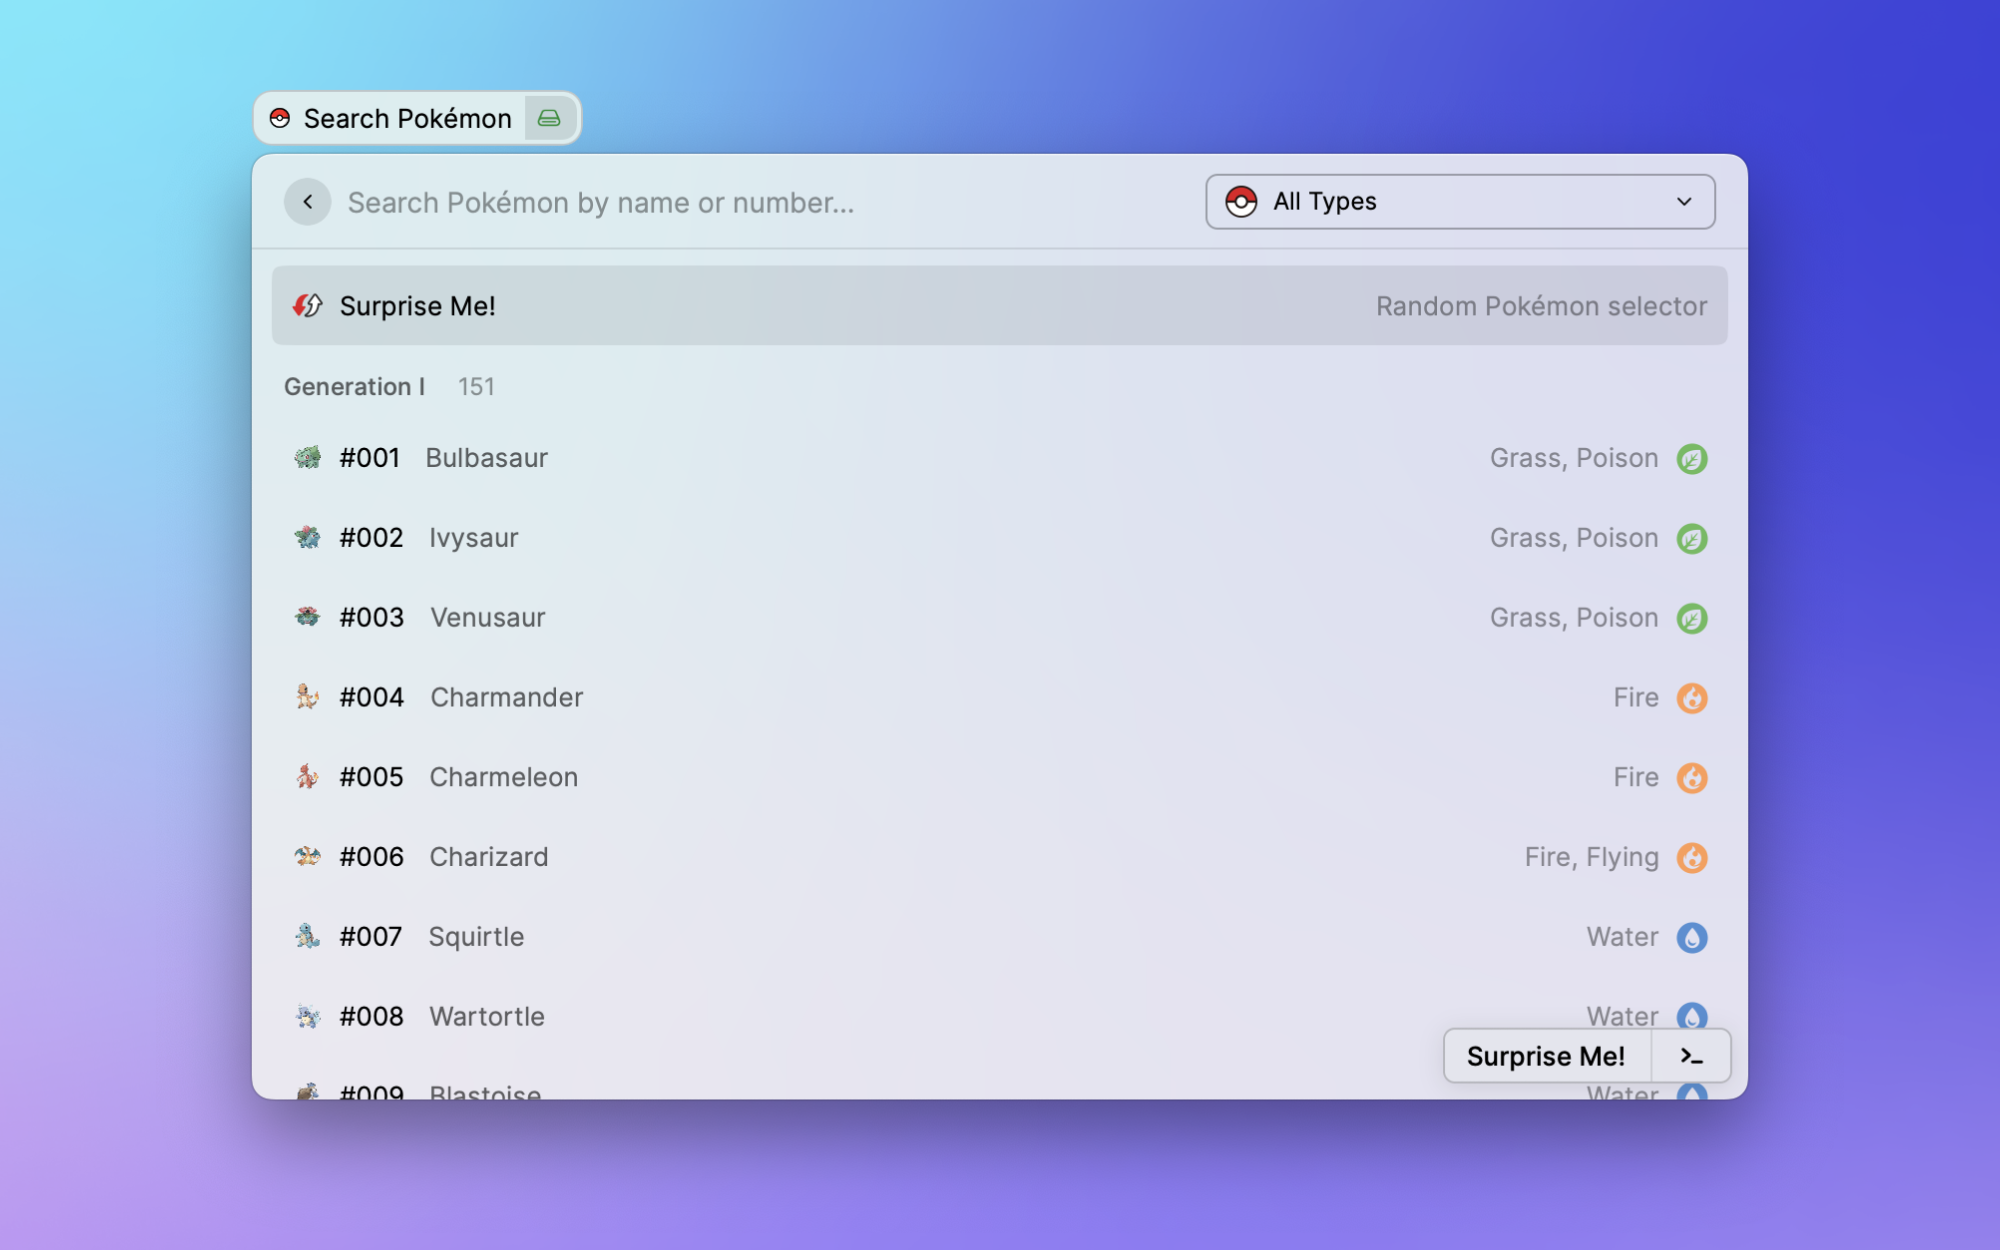
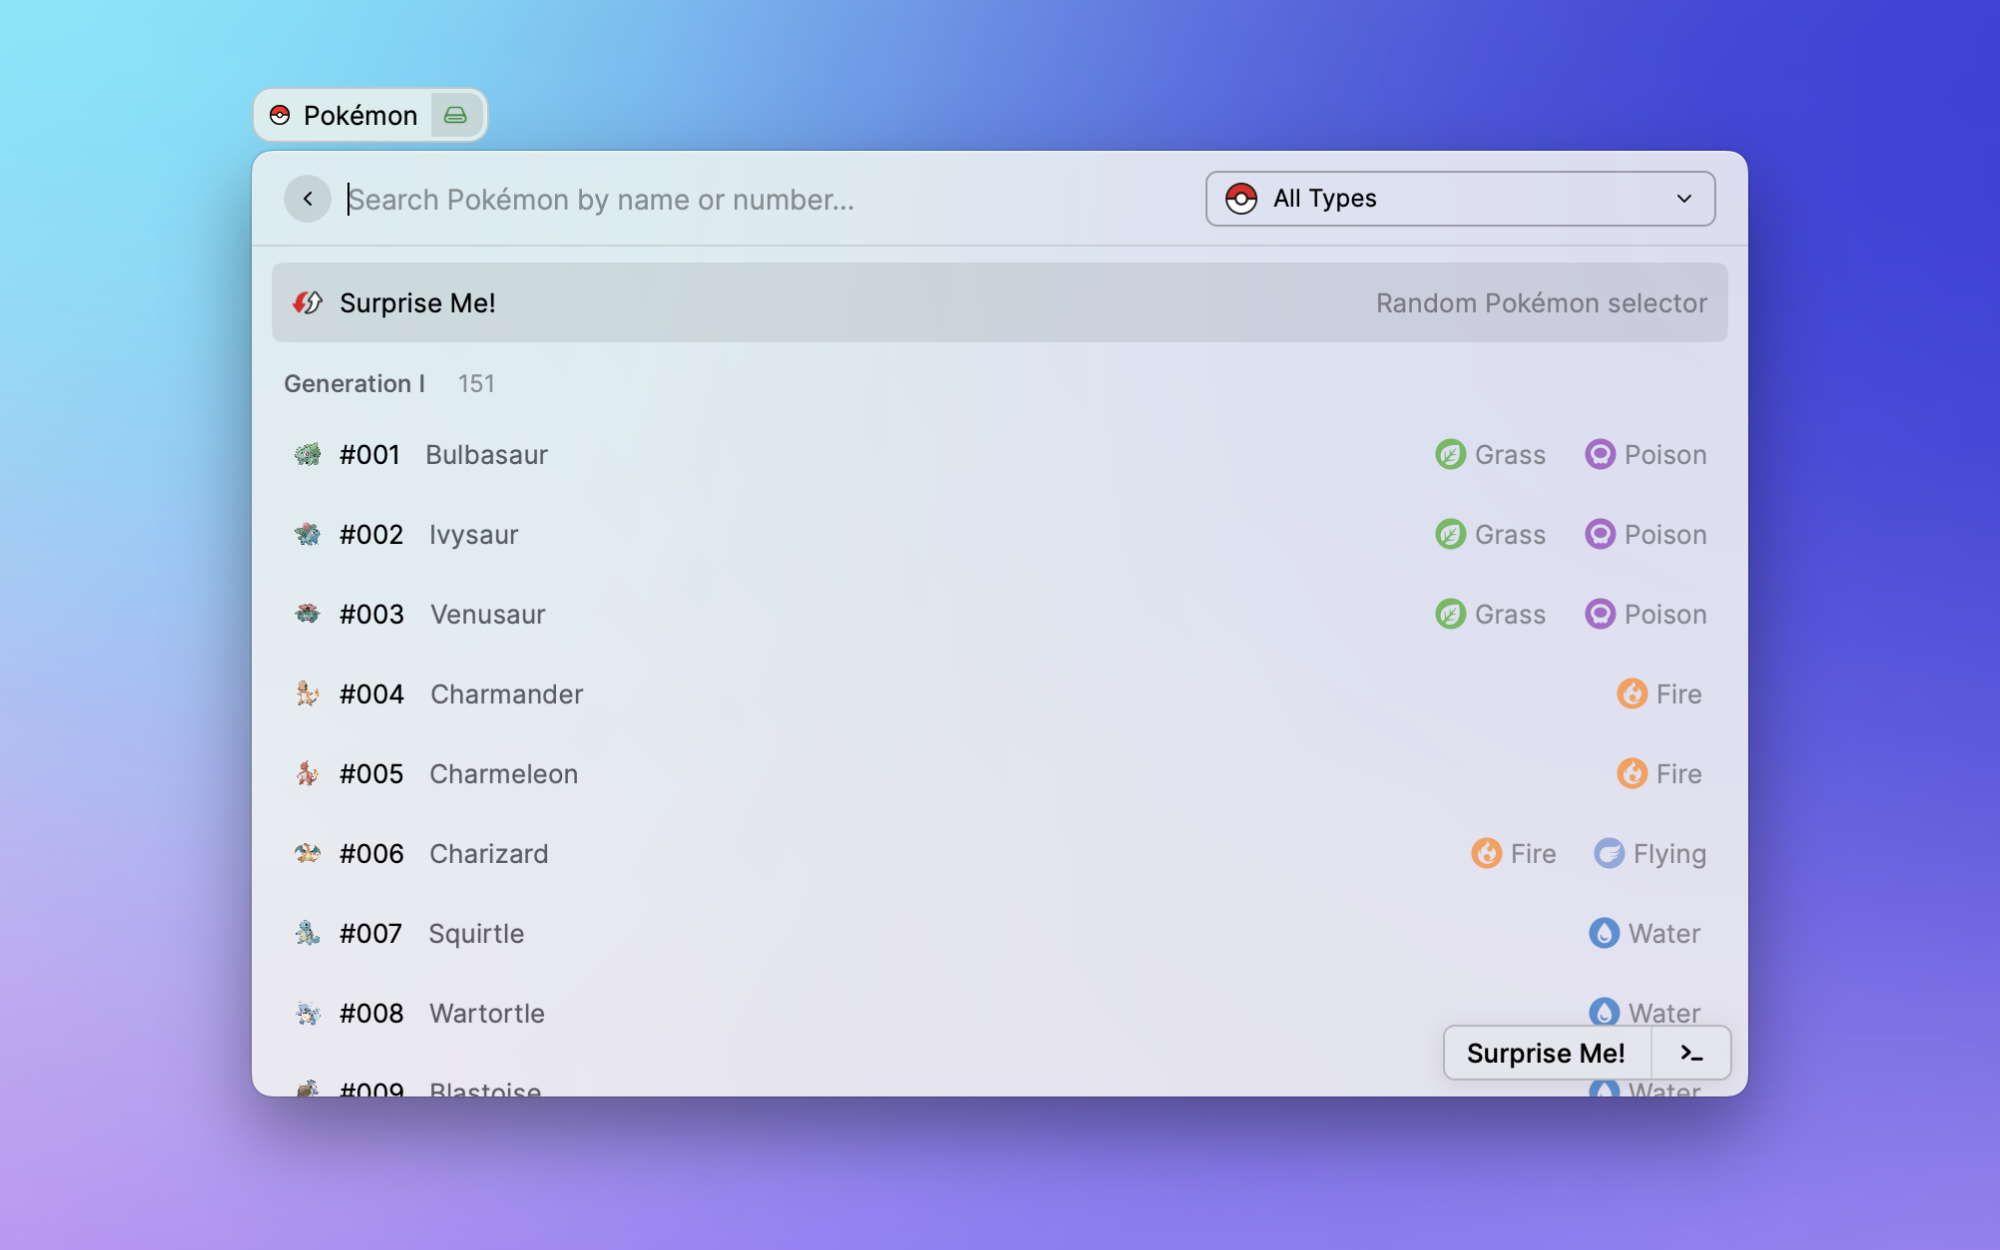
fix: upgrade to latest api

diff --git a/src/pokemon.tsx b/src/pokemon.tsx
@@ -53,7 +53,9 @@ export default function SearchPokemon() {
           <List.Item
             key="surprise"
             title="Surprise Me!"
-            accessoryTitle={showPreview ? undefined : "Random Pokémon selector"}
+            accessories={[
+              { text: showPreview ? undefined : "Random Pokémon selector" },
+            ]}
             icon="icon_sort.svg"
             actions={
               <ActionPanel>
@@ -116,8 +118,10 @@ export default function SearchPokemon() {
                     ),
                   }
                 : {
-                    accessoryTitle: pokemon.types.join(", "),
-                    accessoryIcon: `types/${pokemon.types[0].toLowerCase()}.svg`,
+                    accessories: pokemon.types.map((type) => ({
+                      text: type,
+                      icon: `types/${type.toLowerCase()}.svg`,
+                    })),
                     icon: {
                       source: pokemon.artwork,
                       fallback: "icon.png",

diff --git a/src/move.tsx b/src/move.tsx
@@ -56,8 +56,12 @@ export default function Move() {
                   title={move.name}
                   subtitle={showPreview ? undefined : move.short_effect}
                   icon={`moves/${move.damage_class || "status"}.svg`}
-                  accessoryTitle={move.type}
-                  accessoryIcon={`types/${move.type.toLowerCase()}.svg`}
+                  accessories={[
+                    {
+                      text: move.type,
+                      icon: `types/${move.type.toLowerCase()}.svg`,
+                    },
+                  ]}
                   detail={
                     showPreview ? (
                       <List.Item.Detail
